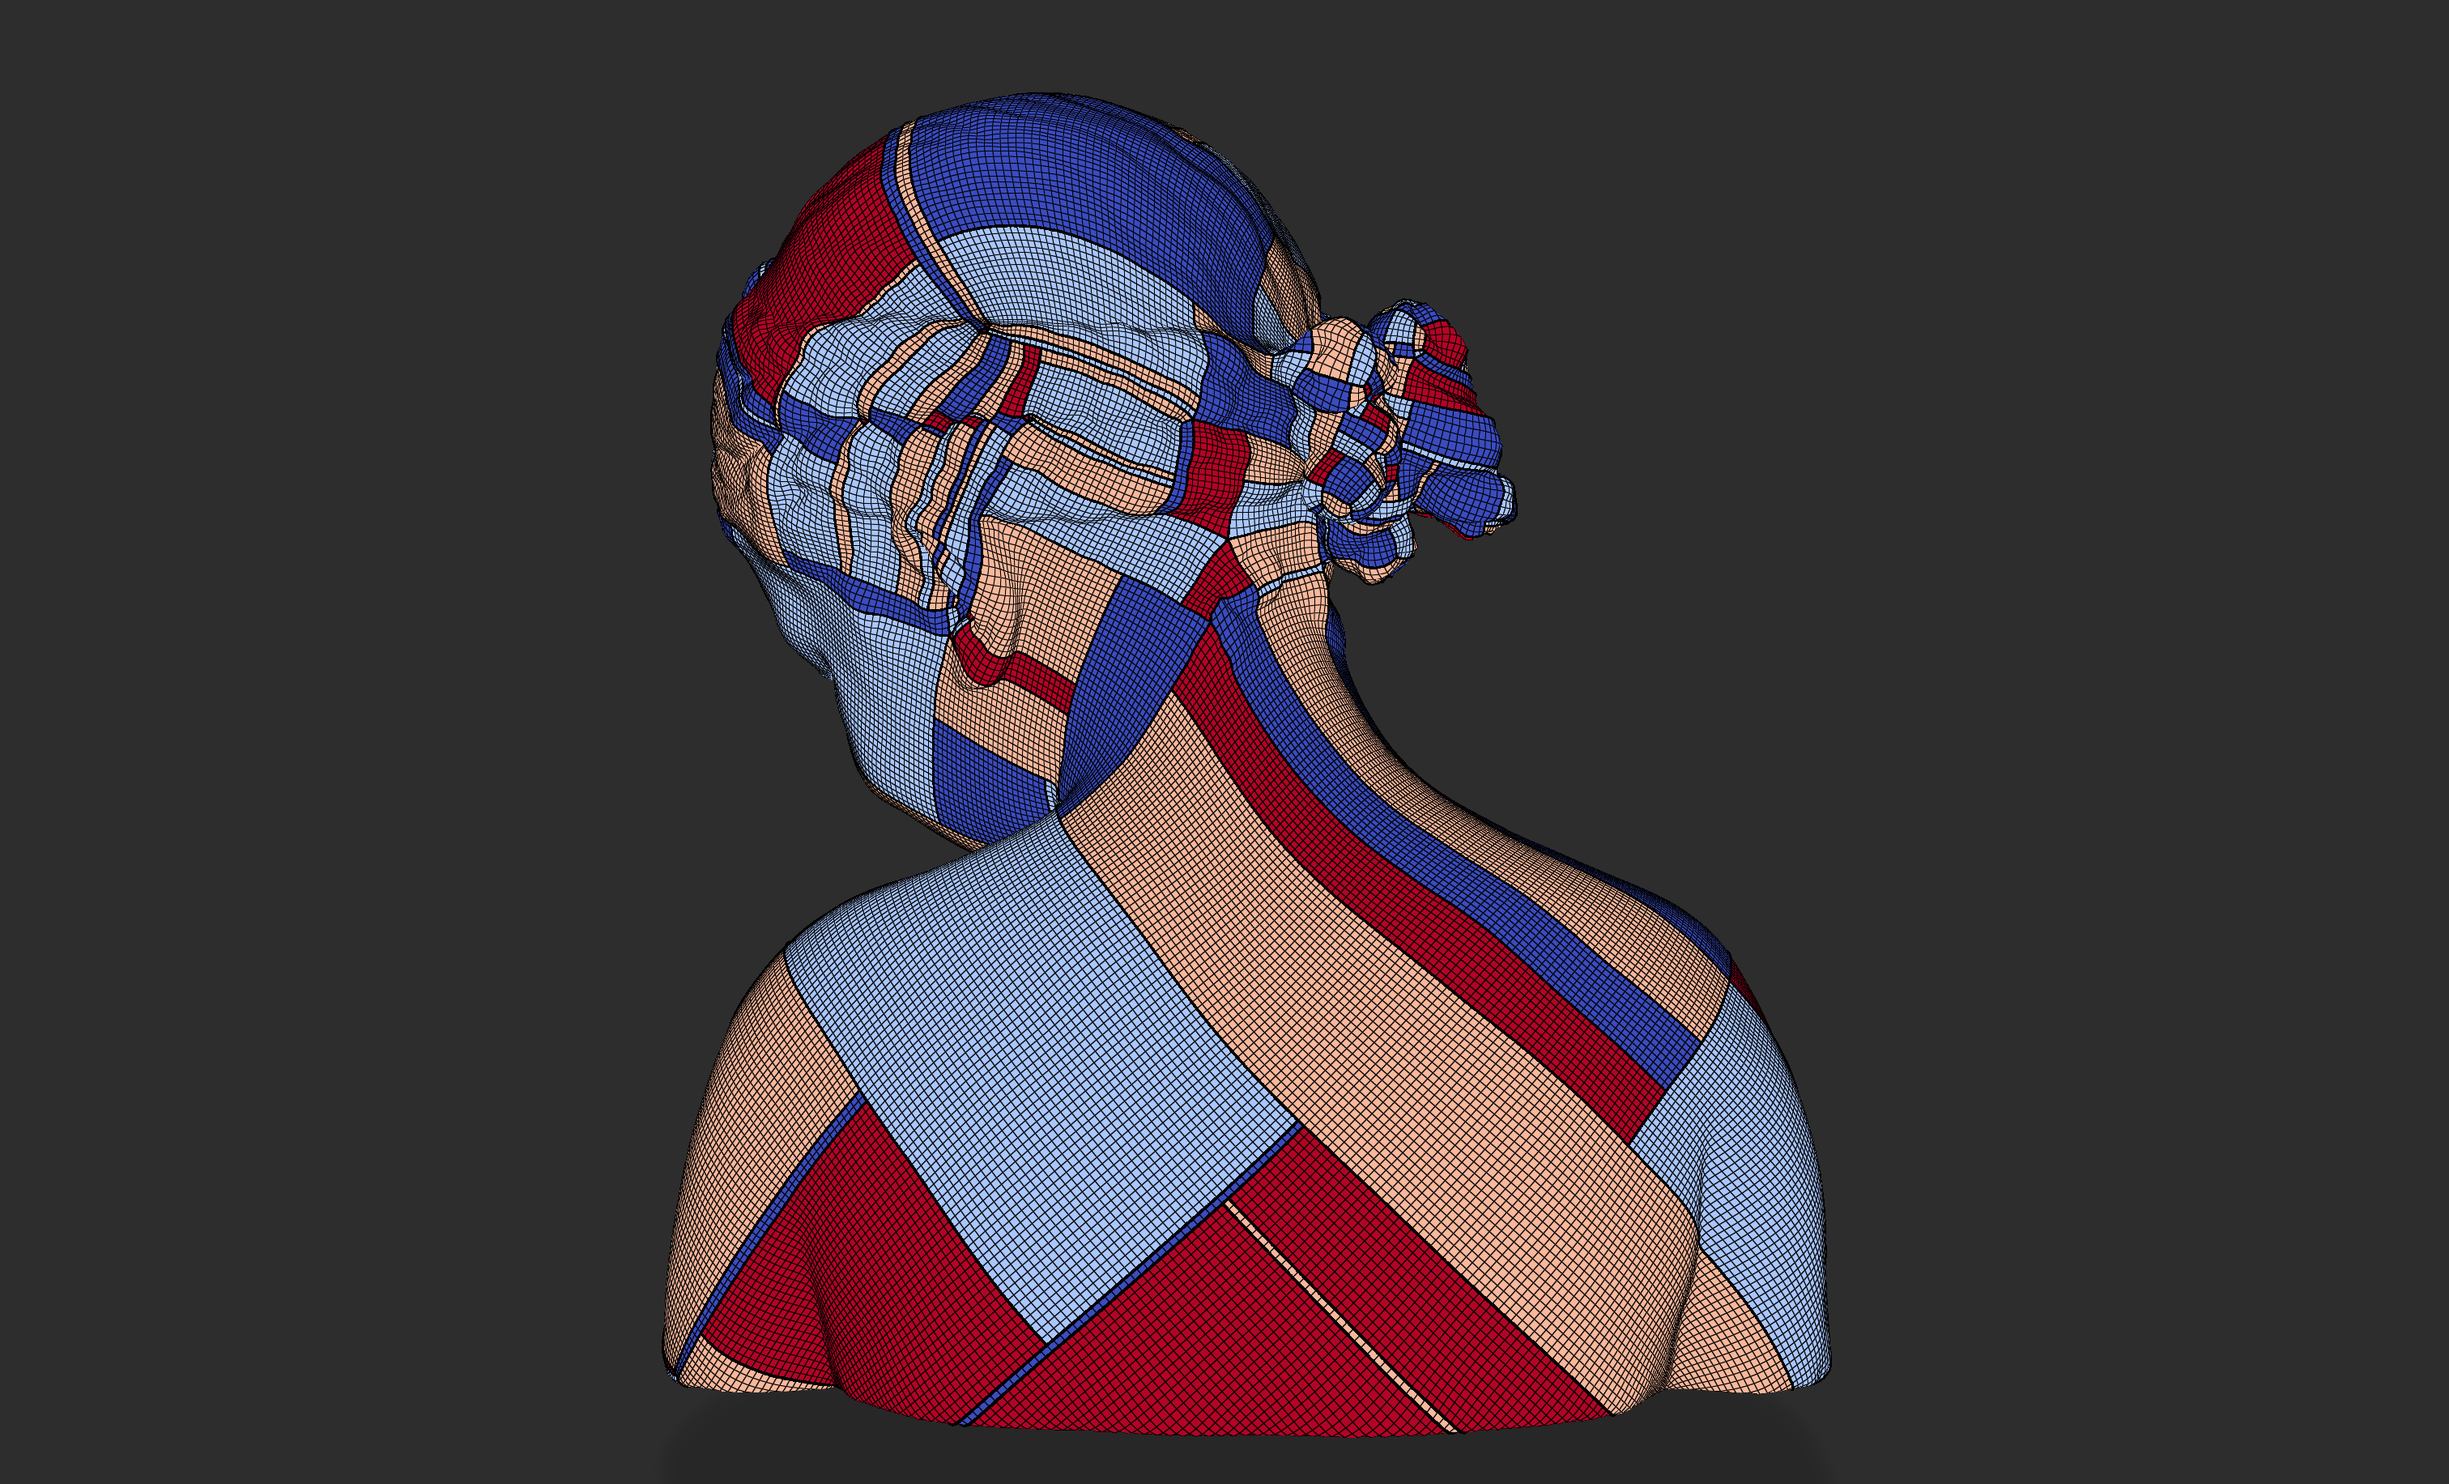
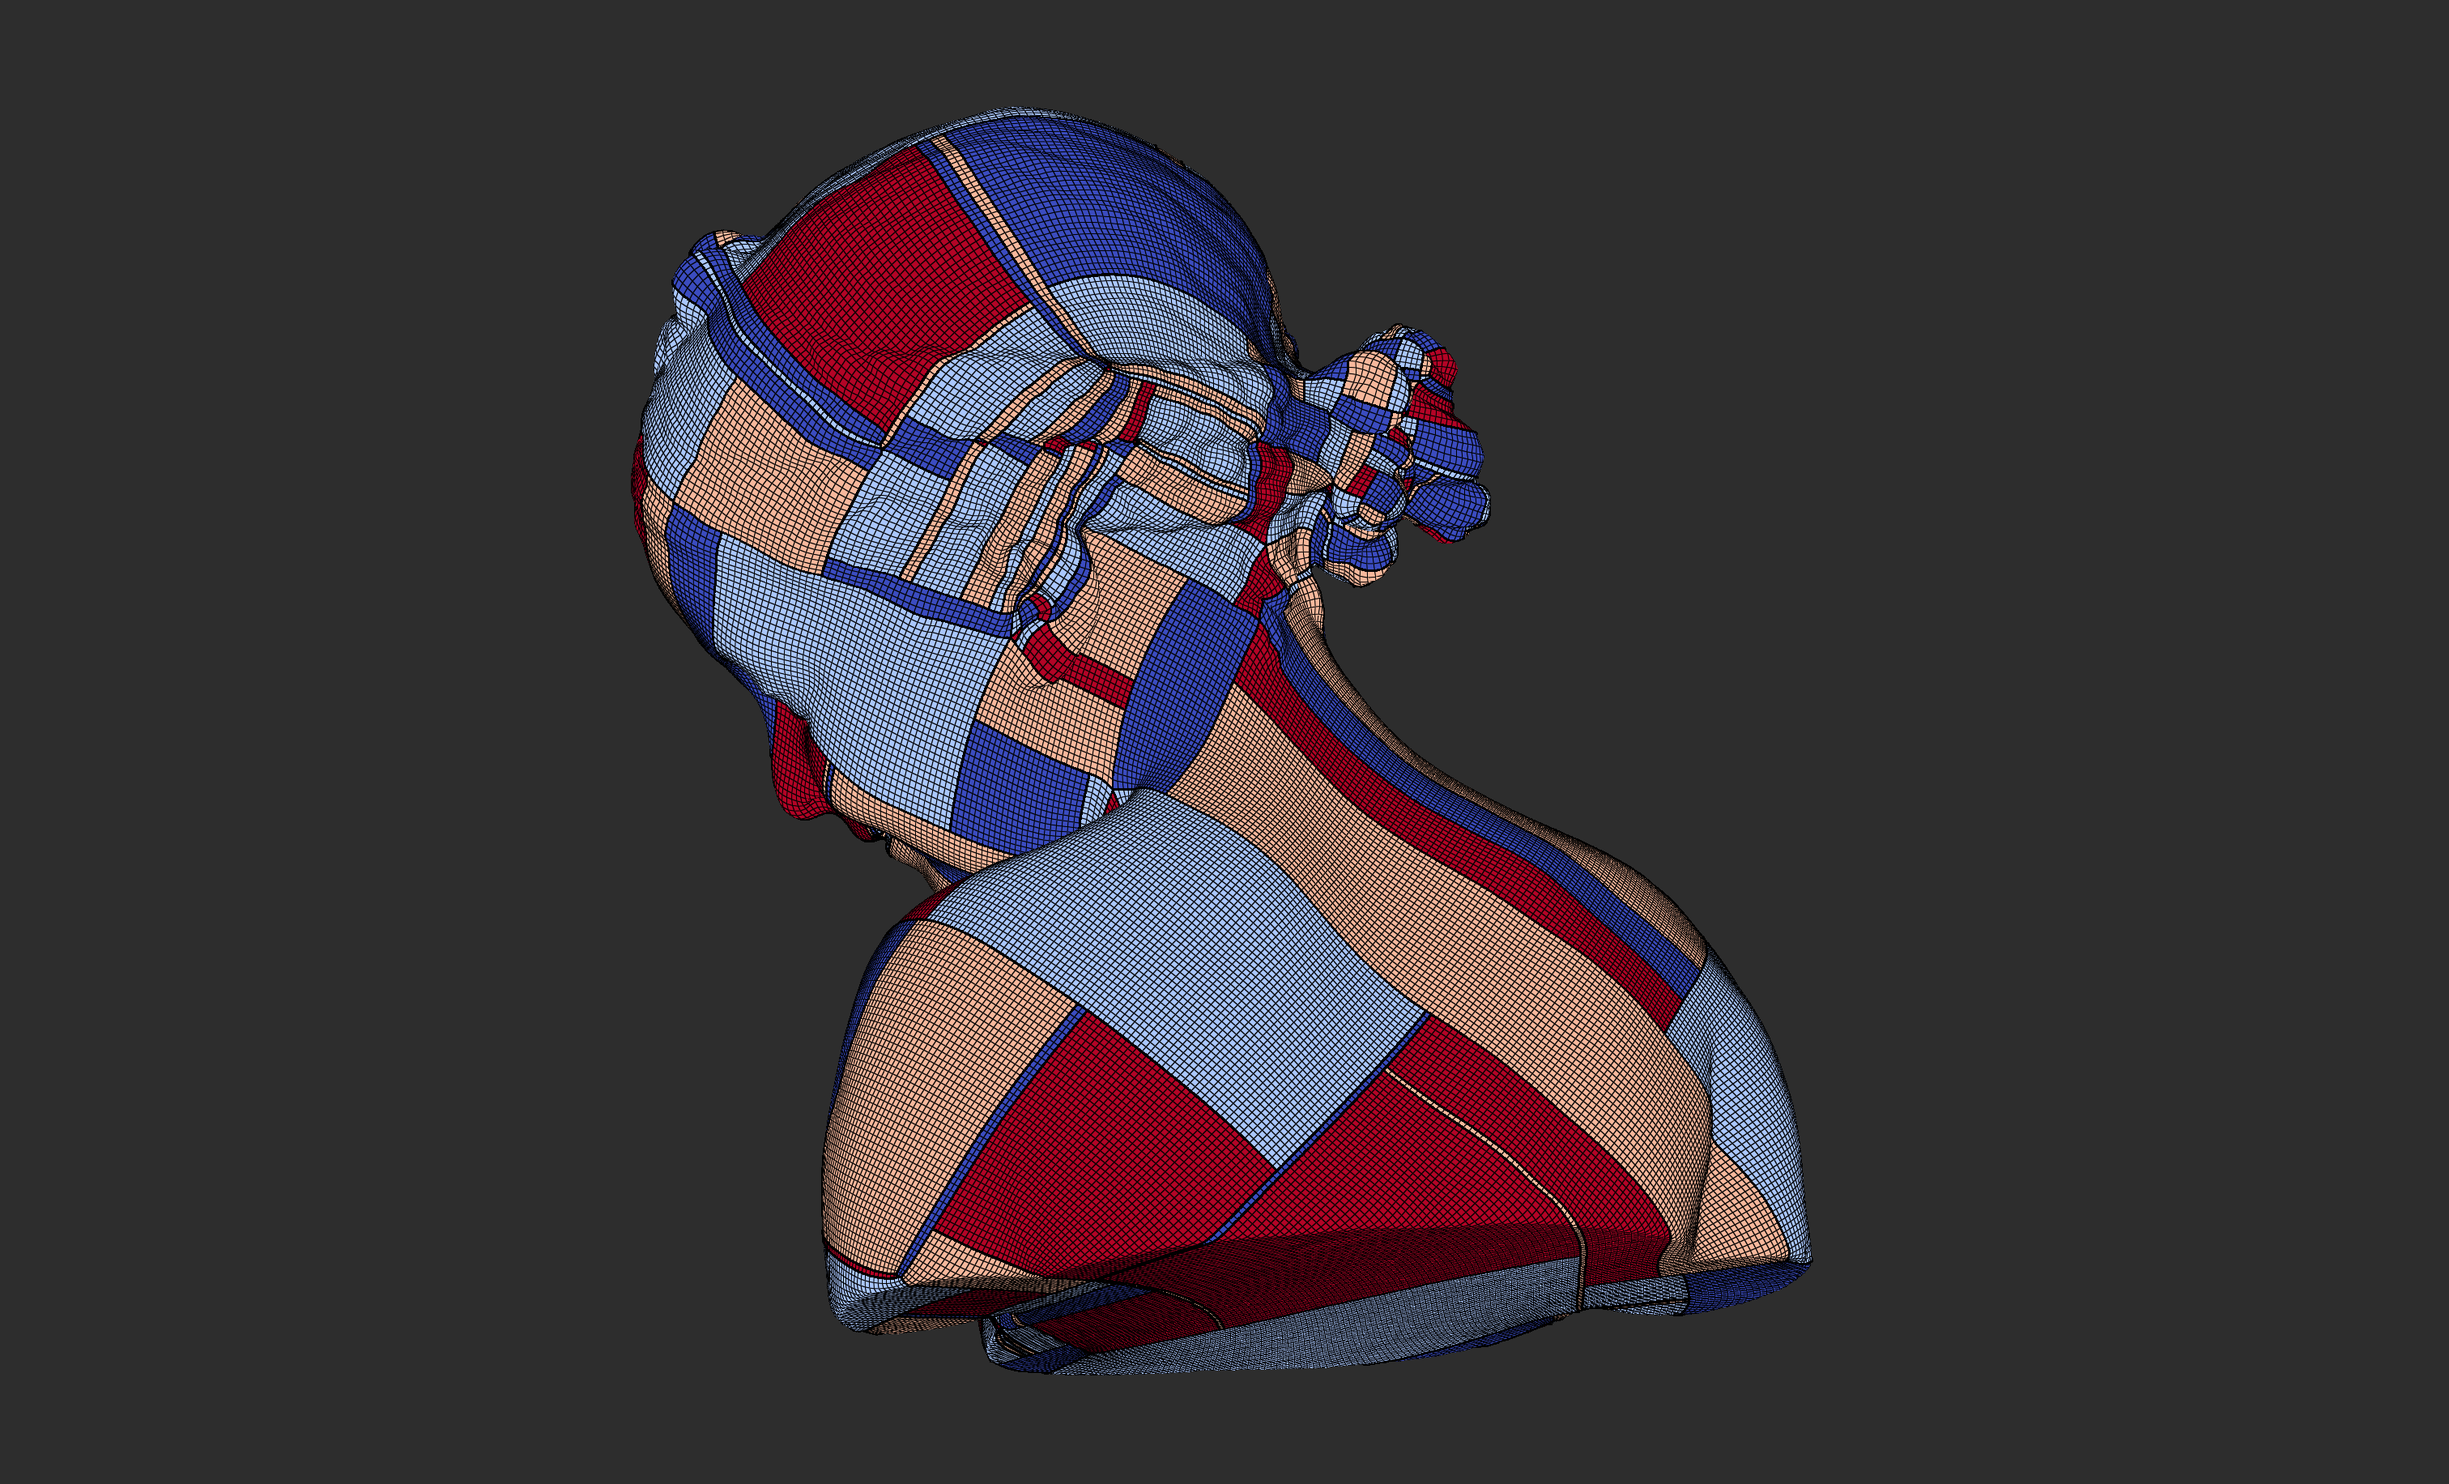
update readme

Changed region(s): [[0.2487, 0.0622, 0.746, 0.9956]]

diff --git a/README.md b/README.md
@@ -12,15 +12,13 @@ Many existing quad meshing algorithms rely heavily on Mixed Integer Programming 
 Metriko implements the Quantized Global Parameterization (QGP) algorithm, providing fast and robust quadrilateral parameterization. The algorithm guarantees a valid result and scales linearly with the number of vertices.
 
 ## Features
-Metriko is currently in early development. Available features include:
+Available features include:
 - Globally optimal rotational symmetry tangent fields
 - Basic integration of tangent fields
 - Integer Grid Mapping (IGM) using an iterative rounding algorithm
 - T-mesh implementation based on the motorcycle graph
 - Quantization and mesh generation using T-mesh
 - Extraction of a quad mesh(QEx) from a locally-injective uv map
-
-Known limitations and issues:
 - Meshes with boundaries are currently not supported (planned for future support)
 
 ## Usage
